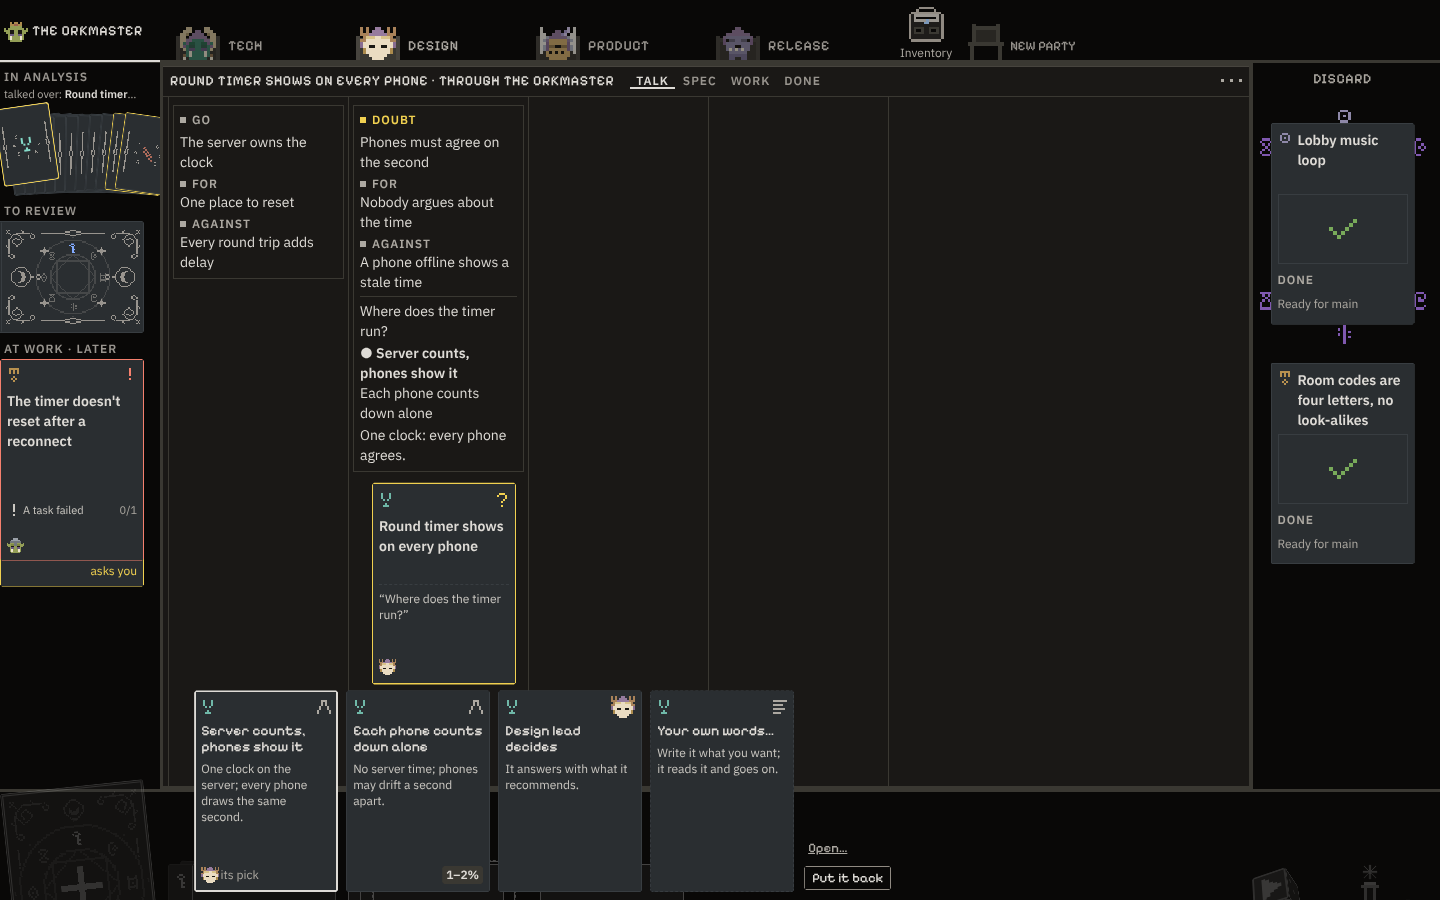
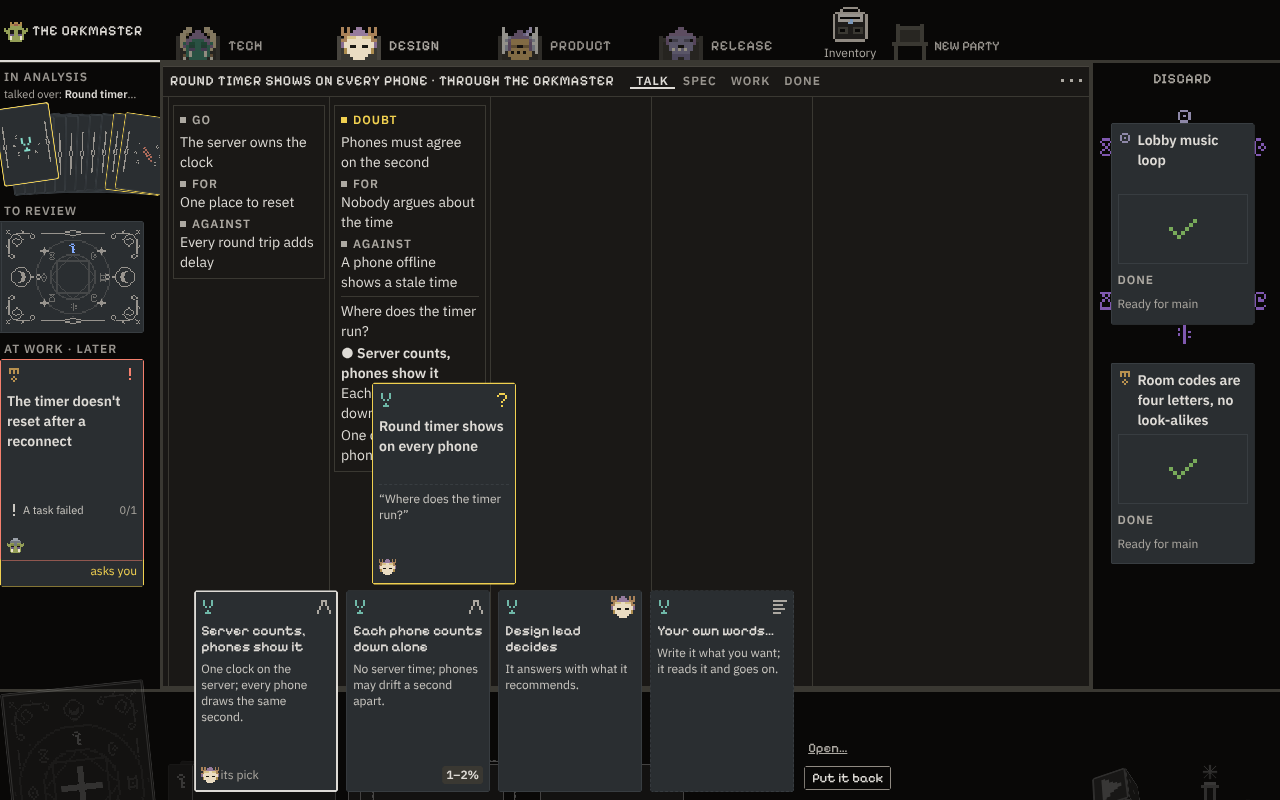
Reshoot the product pictures of spec 158 H at 1280 x 800, the size Done when names
Claude-Session: https://claude.ai/code/session_01MCU3dpbKvLjgD4LJ6vm5TH

diff --git a/docs/mockups/answer-cards/shoot_product.py b/docs/mockups/answer-cards/shoot_product.py
@@ -1,4 +1,4 @@
-"""The product's lifted question as it is (spec 158 F), no mockup layer: the camera of shoot.py pointed at the page itself, at 1440 x 900, with the ways' lines the test host writes.
+"""The product's lifted question as it is (spec 158 F), no mockup layer: the camera of shoot.py pointed at the page itself, at 1280 x 800, with the ways' lines the test host writes.
 
     MOCK_OUT=docs/mockups/answer-cards/shots PYTHONPATH=. uv run --extra dev --extra browser --extra gui \
         pytest -q -p tests.conftest -p no:xdist docs/mockups/answer-cards/shoot_product.py"""
@@ -16,7 +16,7 @@ OUT = Path(os.environ["MOCK_OUT"])
 def test_shots(gui):
     server, browser = gui
     h = WaysHost()
-    pg = browser.new_context(viewport={"width": 1440, "height": 900}).new_page()
+    pg = browser.new_context(viewport={"width": 1280, "height": 800}).new_page()
     pg.route_web_socket("**/ws*", h.on_socket)
     pg.goto(server.url)
     pg.locator(".hand-card").first.wait_for(state="attached", timeout=WAIT_MS)
@@ -33,7 +33,7 @@ def test_shot_talk(gui):
     """A goal still in Talk, lifted (spec 158 H): its leaders' Talk and its question with its ways on the table."""
     server, browser = gui
     h = TalkHost()
-    pg = browser.new_context(viewport={"width": 1440, "height": 900}).new_page()
+    pg = browser.new_context(viewport={"width": 1280, "height": 800}).new_page()
     pg.route_web_socket("**/ws*", h.on_socket)
     pg.goto(server.url)
     pg.locator(".hand-card").first.wait_for(state="attached", timeout=WAIT_MS)
